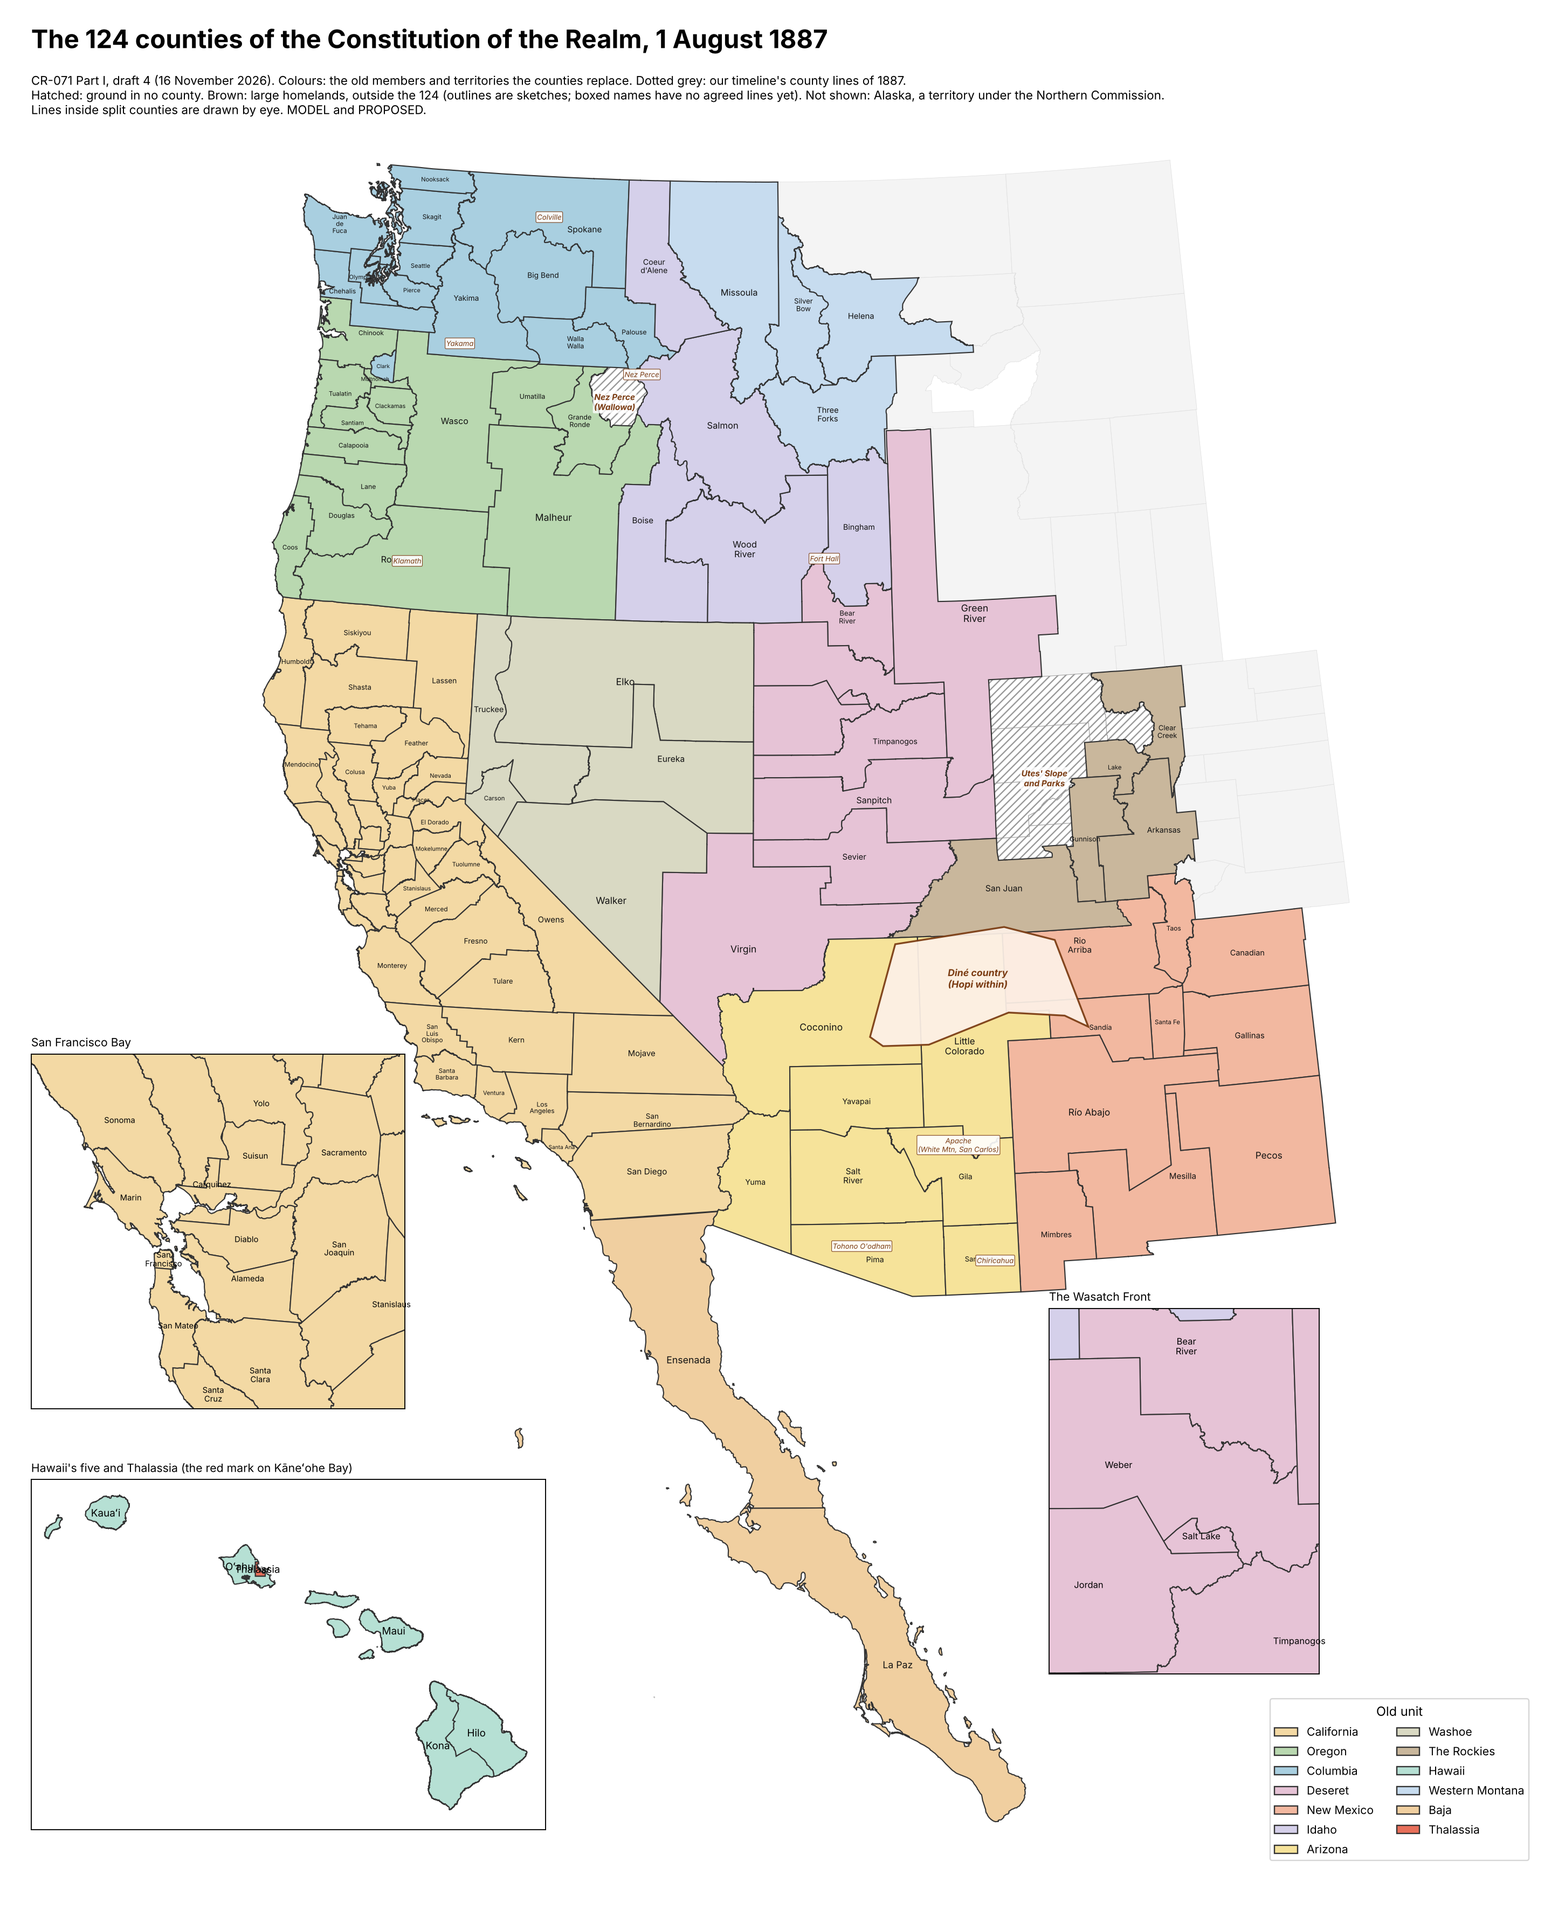
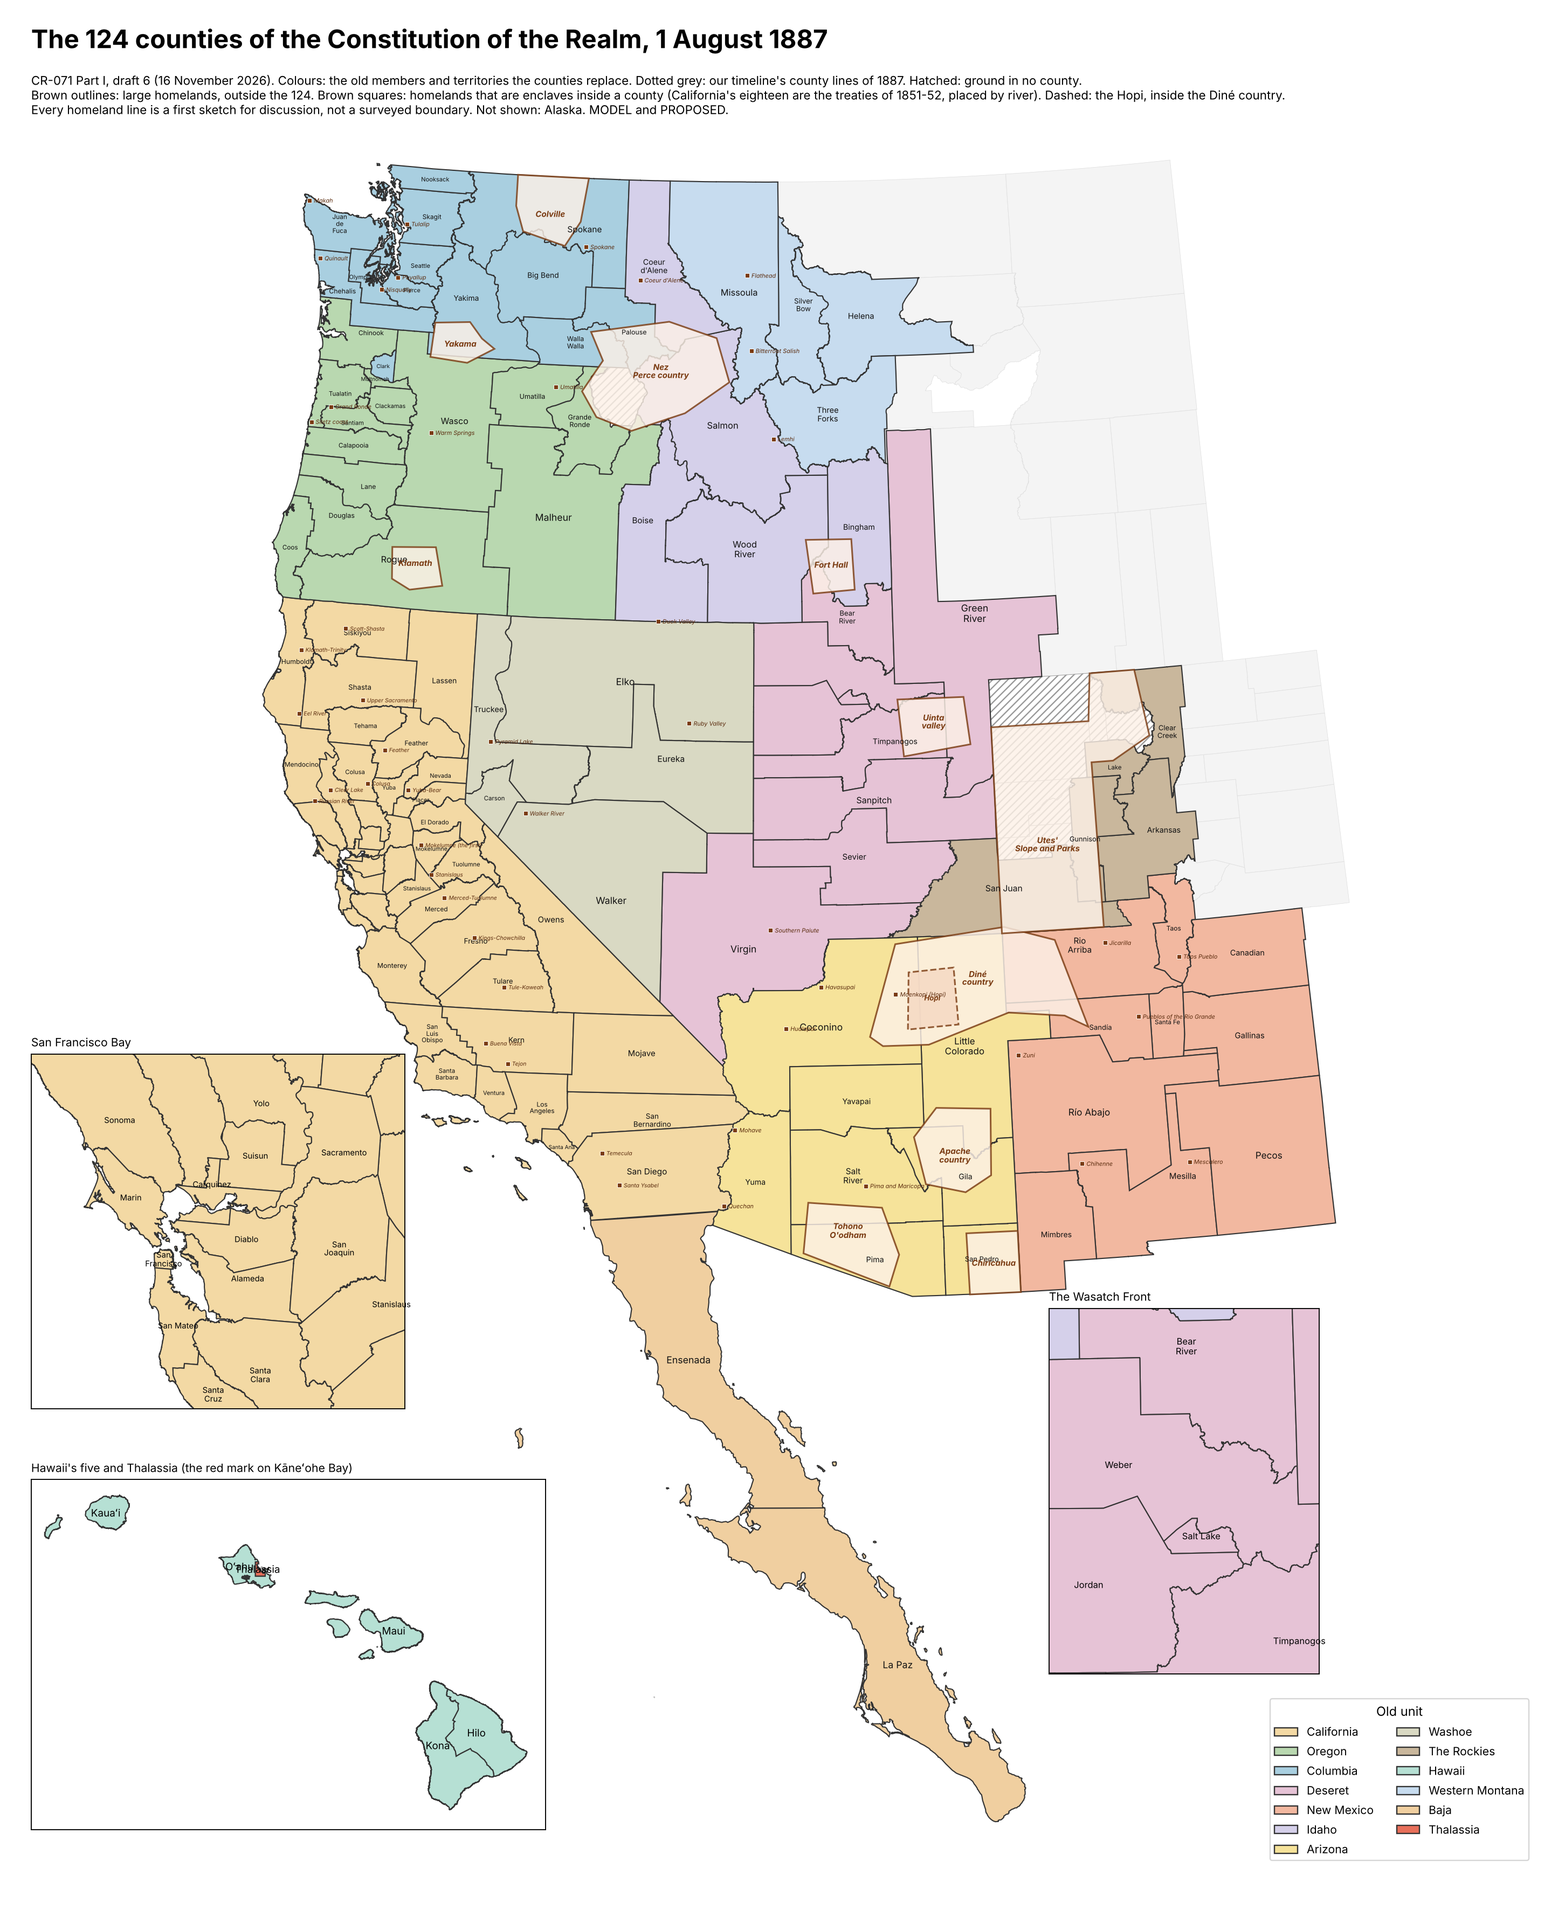
CR-071 Part I, draft 6: the homelands' lines sketched (I4a), California's eighteen and the other enclaves on the map
Claude-Session: https://claude.ai/code/session_016F3fbVaKruuGcW1W1UBgCv

diff --git a/population/draw_map_1887.py b/population/draw_map_1887.py
@@ -30,7 +30,7 @@ import matplotlib.pyplot as plt
 import shapefile
 from matplotlib.patches import PathPatch
 from matplotlib.path import Path as MPath
-from shapely.geometry import LineString, Polygon, box, shape
+from shapely.geometry import LineString, Polygon, box, shape  # noqa: F401
 from shapely.ops import polygonize, unary_union
 import numpy as np
 import shapely
@@ -54,16 +54,7 @@ CUTS = {
     "AZ;Mohave": [("Virgin", -114.2, 36.2, -112.0, 37.1)],
     "AZ;Yavapai": [("Coconino", -114.0, 35.0, -110.6, 37.1)],
 }
-# rough sketches of the large homelands (I-8, I-26), lon/lat rings drawn from Part I's wording
-HOMELANDS = {
-    "Diné country\n(Hopi within)": [(-111.75, 35.45), (-111.2, 36.9), (-109.0, 37.1), (-108.0, 36.85), (-107.45, 35.45),
-                                    (-107.9, 35.65), (-109.0, 35.75), (-110.6, 35.3), (-111.5, 35.3)],
-}
-HOMELAND_LABELS = {  # no outline: lines OPEN
-    "Yakama": (-120.8, 46.25), "Colville": (-118.9, 48.35), "Nez Perce": (-116.6, 45.9), "Klamath": (-121.6, 42.75),
-    "Fort Hall": (-112.5, 43.0), "Tohono O'odham": (-112.0, 32.15), "Apache\n(White Mtn, San Carlos)": (-110.1, 33.7),
-    "Chiricahua": (-109.5, 31.85),
-}
+# the homelands' sketched lines and the enclaves' places: data/counties/homelands_1887.toml
 UNIT_COLOUR = {"California": "#f3d9a4", "Oregon": "#b9d8b0", "Columbia": "#a9cfe0", "Deseret": "#e6c3d6",
                "New Mexico": "#f2b8a0", "Idaho": "#d5d0ea", "Arizona": "#f6e39a", "Washoe": "#d9d9c3",
                "The Rockies": "#c9b79c", "Hawaii": "#b6e0d4", "Western Montana": "#c7dcef", "Baja": "#f0cfa0",
@@ -217,19 +208,20 @@ def main():
         fs = max(4.2, min(7.5, 3.6 + 95 * math.sqrt(big.area)))
         ax.text(pt.x, pt.y, n.replace(" ", "\n") if len(n) > 9 else n, ha="center", va="center", fontsize=fs,
                 color="#111111", linespacing=0.9)
-    for label, ring in HOMELANDS.items():
-        g = P(Polygon(ring))
-        draw_poly(ax, g, facecolor="#fdf1e7", edgecolor="#7a3b12", linewidth=1.4, alpha=0.93)
+    hl = tomllib.load(open(DATA / "homelands_1887.toml", "rb"))
+    for h in hl["large"] + hl["inner"]:
+        g = P(Polygon(h["ring"]))
+        inner = h in hl["inner"]
+        draw_poly(ax, g, facecolor="#fdf1e7" if not inner else "#f6d9c2", edgecolor="#7a3b12", linewidth=1.3,
+                  alpha=0.82, linestyle="-" if not inner else "--")
         pt = g.representative_point()
-        ax.text(pt.x, pt.y, label, ha="center", va="center", fontsize=7.5, style="italic", color="#7a3b12", weight="bold")
-    for label, (lo, la) in HOMELAND_LABELS.items():
-        x, y = albers(lo, la)
-        ax.text(x, y, label, ha="center", va="center", fontsize=5.6, style="italic", color="#7a3b12",
-                bbox=dict(boxstyle="round,pad=0.15", fc="white", ec="#7a3b12", lw=0.5, alpha=0.9))
-    for label, lo, la in (("Utes' Slope\nand Parks", -108.0, 39.4), ("Nez Perce\n(Wallowa)", -117.2, 45.45)):
-        x, y = albers(lo, la)
-        ax.text(x, y, label, ha="center", va="center", fontsize=6.5, style="italic", color="#7a3b12", weight="bold",
-                bbox=dict(boxstyle="round,pad=0.15", fc="white", ec="none", alpha=0.8))
+        ax.text(pt.x, pt.y, h["name"].replace(" ", "\n", 1) if len(h["name"]) > 9 else h["name"], ha="center", va="center",
+                fontsize=6.4 if not inner else 5.6, style="italic", color="#7a3b12", weight="bold", linespacing=0.9)
+    for group, fs in (("california", 4.4), ("elsewhere", 4.6)):
+        for name, lo, la in hl["enclaves"][group]:
+            x, y = albers(lo, la)
+            ax.plot([x], [y], marker="s", ms=3.2, color="#7a3b12", mec="white", mew=0.4, zorder=6)
+            ax.text(x + 0.0012, y, name, ha="left", va="center", fontsize=fs, style="italic", color="#5a2a0c", zorder=6)
     ax.autoscale_view()
     x0, x1 = ax.get_xlim()
     y0, y1 = ax.get_ylim()
@@ -261,11 +253,12 @@ def main():
     inset([0.66, 0.13, 0.20, 0.19], main_names, "The Wasatch Front", (-113.3, 39.9, -110.8, 42.3), fs=7)
 
     fig.text(0.02, 0.975, "The 124 counties of the Constitution of the Realm, 1 August 1887", fontsize=20, weight="bold")
-    fig.text(0.02, 0.962, "CR-071 Part I, draft 4 (16 November 2026). Colours: the old members and territories the counties replace. "
-             "Dotted grey: our timeline's county lines of 1887.\nHatched: ground in no county. "
-             "Brown: large homelands, outside the 124 (outlines are sketches; boxed names have no agreed lines yet). "
-             "Not shown: Alaska, a territory under the Northern Commission.\n"
-             "Lines inside split counties are drawn by eye. MODEL and PROPOSED.", fontsize=9.5, va="top")
+    fig.text(0.02, 0.962, "CR-071 Part I, draft 6 (16 November 2026). Colours: the old members and territories the counties replace. "
+             "Dotted grey: our timeline's county lines of 1887. Hatched: ground in no county.\n"
+             "Brown outlines: large homelands, outside the 124. Brown squares: homelands that are enclaves inside a county "
+             "(California's eighteen are the treaties of 1851-52, placed by river). Dashed: the Hopi, inside the Diné country.\n"
+             "Every homeland line is a first sketch for discussion, not a surveyed boundary. Not shown: Alaska. MODEL and PROPOSED.",
+             fontsize=9.5, va="top")
     handles = [plt.Rectangle((0, 0), 1, 1, fc=c, ec="#333333") for c in UNIT_COLOUR.values()]
     fig.legend(handles, list(UNIT_COLOUR), loc="lower right", bbox_to_anchor=(0.985, 0.03), fontsize=9, ncol=2,
                title="Old unit", frameon=True)

diff --git a/book-agent/revision/CR-071-I-map.md b/book-agent/revision/CR-071-I-map.md
@@ -1,6 +1,6 @@
 # CR-071, Part I — The map: the 124 counties
 
-**Status:** DRAFT 5, 16 November 2026: all 124 drawn and approved by the author region by region; map in `population/outputs/map_1887.png`. Decisions I-1 to I-45 below carry the author's words of 16 November; everything else is PROPOSED. Nothing is integrated.
+**Status:** DRAFT 6, 16 November 2026: all 124 drawn and approved by the author region by region; the homelands' lines sketched for discussion (I4a); map in `population/outputs/map_1887.png`. Decisions I-1 to I-45 below carry the author's words of 16 November; everything else is PROPOSED. Nothing is integrated.
 **Read with:** `CR-071-outline.md` (Part I), `CR-071-E-preparation.md` (E4, E5, E7), `CR-071-FG-triggers-act.md` (G3), CR-021 (B3, G), CR-033, CR-037, CR-070.
 **Numbers:** `population/outputs/counties_1887.md` (our timeline's counties of 1 August 1887), `population/outputs/regions_1887.md` (Pacifica's residents by old unit), both built by scripts in `population/`. Every population figure is MODEL.
 
@@ -125,6 +125,35 @@ Alaska's counties of the strawman return to the pool (I-7). The rule behind the 
 - **They do not count toward the 124.**
 - **Voting (I-9).** A member of a nation who lives in a county registers and votes there like anyone else, and votes only where he is registered.
 - **The Senate (I-9, I-11, I-32, APPROVED).** **Seven homeland seats** (the seventh for Alaska's nations, chosen PROPOSED at the Northern Commission's yearly council). The first six: **six homeland seats**, beside the eight aliʻi seats, each chosen by the councils of the compact nations of one region, in their own way: California; the Columbia and the Sound; the Basin (Shoshone, Paiute, Washoe and the Utes of Deseret); the Rockies' Utes; the Diné; the Pueblos and the Apache.
+
+## I4a. The homelands' lines: a first suggestion (PROPOSED; the author, 16 November, 17:18: "I would like to see a suggestion for the homelands' actual borders next")
+
+**The rule proposed.** A homeland's line is the line of the agreement that made it. Pacifica keeps its own treaties (California, 1851–52; the Diné, the Apache and the Utes, 1865–66) and assumes the Union's ratified ones (CR-059 N-B; CR-060 N1). Where our timeline drew a reservation only after 1861, by executive order or by a treaty Pacifica never signed, that line is used as a first size and the agreement is Pacifica's own, to be dated. Where a line of the 1850s was later cut down in our timeline (the Nez Perce in 1863), the cut is not made here. Mining camps and towns already inside a homeland stand on leased ground (I-34).
+
+The lines are in `population/data/counties/homelands_1887.toml` and on the map. **Every one is a sketch from the assistant's memory of the treaties, not yet read from Royce's *Indian Land Cessions* (1899) or its digitized maps; the areas are measured off the sketches.**
+
+| Large homeland (outside the 124) | Basis | Sketch, sq mi | What the author must decide |
+|---|---|---|---|
+| **Utes' Slope and Parks** | The agreement of 1866 (§15); our timeline's treaty of 1868, west of 107° W, with North and Middle Park | about 30,000 | The largest. San Juan, Gunnison and part of Lake stand inside it on lease (I-34). Whether the Parks belong |
+| **Diné country** | The treaty of 1865; I-18, I-19 | about 21,000 | The sketch is smaller than the 30,000 this part named earlier; the northern line (the San Juan, or beyond it) decides |
+| **Nez Perce country** | Stevens's treaty of 1855, with the Wallowa | about 14,000 | Lewiston and the Clearwater and Salmon camps of 1860–62 lie inside it. Proposed: they are leased county ground (in Palouse and Salmon); the cut of 1863 never happens |
+| **Tohono O'odham** | No treaty in our timeline; the desert they hold | about 7,000 | Pacifica's own compact, to be dated; Pima county keeps Tucson and the Santa Cruz |
+| **Apache country** | The peace of 1865 (§15); our timeline's orders of 1871–72 | about 6,500 | Globe's and Clifton's mines on lease |
+| **Colville** | Our timeline's order of 1872 | about 4,800 | Pacifica's own compact with the upper Columbia's peoples, to be dated |
+| **Uinta valley** | The Spanish Fork council of 1865 (§15); our timeline's order of 1861 | about 4,200 | New on the list: it passes I-26's test. Whether the Utes of Deseret keep ground in their own valleys as well |
+| **Chiricahua** | The peace of 1865 with Cochise; our timeline's reservation of 1872 | about 3,800 | It covers most of San Pedro county east of the river (I-37) |
+| **Fort Hall** | Our timeline's Fort Bridger treaty of 1868; Washakie's agreement is OPEN in canon | about 2,800 | Just under I-26's size; kept large because it lies across the Snake |
+| **Yakama** | Stevens's treaty of 1855 | about 2,200 | Under I-26's size on this sketch (the treaty's own acreage to check); listed as large by I-26 |
+| **Klamath** | Our timeline's treaty of 1864 | about 2,200 | As Yakama |
+| *Hopi (inside the Diné country)* | HP1–HP7 | about 3,300 | The line by named places (HP2) |
+
+Together the large homelands are on the order of 100,000 square miles, about a tenth of the mainland.
+
+**Enclaves (inside a county's lines).** Marked on the map as squares, with no outline yet:
+- **California's eighteen.** The treaties of 1851–52 (§8) reserved eighteen tracts; our timeline's Senate rejected them, here they stand. They are placed by river: Tejon, Buena Vista, Tule–Kaweah, Kings–Chowchilla, Merced–Tuolumne, Stanislaus, Mokelumne (the first, §8), Yuba–Bear, Feather, Colusa, Upper Sacramento, Clear Lake, Russian River, Eel River, Klamath–Trinity, Scott–Shasta, Temecula, Santa Ysabel. The names are the assistant's labels; the treaties' own tracts and acreage (about 7.5% of the state in our timeline's drafts, to verify) are to be read from Royce and from Heizer, *The Eighteen Unratified Treaties* (1972).
+- **Elsewhere:** Warm Springs, Umatilla, the Siletz coast, Grand Ronde, Quinault, Makah, Tulalip, Puyallup, Nisqually, Coeur d'Alene, Spokane, Flathead, the Bitterroot Salish, Lemhi, Duck Valley, Pyramid Lake, Walker River, Ruby Valley, the Southern Paiute, Moenkopi, Zuni, the Rio Grande Pueblos, Taos Pueblo, the Jicarilla (I-31), the Mescalero, the Chihenne, the Pima and Maricopa, the Quechan, the Mohave, the Hualapai, the Havasupai. The list is not complete, and Baja's peoples are OPEN.
+
+**For the author:** the rule; the Nez Perce line of 1855 with Lewiston on lease; the Uinta valley as a large homeland; the Diné country's northern line; whether Yakama, Klamath and Fort Hall stay large. **Source needed:** the Forest Service's digitized Royce maps ("Tribal Land Cessions", S_USA.TRIBALCEDEDLANDS) could not be reached from this workspace; with that file in the repository the sketches can be replaced by the treaties' own lines.
 
 ## I5. Alaska — I-7 APPROVED
 
@@ -365,7 +394,7 @@ Hawaii had no counties in our timeline before 1905; the Kingdom had a governor f
 
 ## I6. The map as drawn
 
-**The drawing** is `population/outputs/map_1887.png`, made by `population/draw_map_1887.py` from the Newberry atlas's geometry (CC0; not in this repository). It joins our timeline's counties of 1887 as the list says; where one of them is divided, the cut is a straight line chosen by eye, and the homelands' outlines are sketches. Known approximations: Clear Creek is drawn with the whole of Boulder, Jefferson and Larimer, of which only the mountain districts are Pacifican; the Diné country is sketched over the counties round it.
+**The drawing** is `population/outputs/map_1887.png`, made by `population/draw_map_1887.py` from the Newberry atlas's geometry (CC0; not in this repository). It joins our timeline's counties of 1887 as the list says; where one of them is divided, the cut is a straight line chosen by eye, and the homelands' outlines are sketches. Known approximations: Clear Creek is drawn with the whole of Boulder, Jefferson and Larimer, of which only the mountain districts are Pacifican; the homelands (I4a) are sketched over the counties round them, whose lines are not yet pulled back.
 
 `population/outputs/map_1887.md` lists all 124 with seats, parts and people; `population/data/counties/map_1887.toml` is the source, and `population/map_1887.py` checks it (124 counties, no name twice, no historical county assigned twice).
 

diff --git a/outputs/sessions/20261116-counties/session.md b/outputs/sessions/20261116-counties/session.md
@@ -54,6 +54,9 @@ independence: self-review only (the consistency check of 16 November was done in
 - **Approved (author, 16 November, 16:31):** I-41 to I-45 (Hawaii's five; Thalassia's lines; Kalaupapa; the Hawaiian examination; Idaho's, Washoe's and the Rockies' counties). Every county of the 124 is now approved.
 - **Map drawn** on the author's request: `population/outputs/map_1887.png` (`population/draw_map_1887.py`; needs the atlas's topology, cloned outside the repo, plus shapely and pyshp).
 - **Owed:** sources for Salt Lake City's share of its valley and for the Diné population of 1887.
+- **Author, 16 November, 17:18:** the awkwardly shaped counties are acceptable; asked for a suggestion of the homelands' borders and why California's homelands were not on the map (they were enclaves by I-8 and had been left off the drawing; now marked).
+- **Homelands sketched (PROPOSED):** `population/data/counties/homelands_1887.toml`, Part I section I4a, and the map: eleven large homelands with first lines, the Hopi inside the Diné country, California's eighteen and some thirty other enclaves as points. All from memory of the treaties; Royce's maps still to be read (the Forest Service's file could not be reached from the workspace).
+- **Waiting for the author:** I4a's questions (the rule; Nez Perce 1855 with Lewiston on lease; Uinta valley; the Diné country's northern line; Yakama, Klamath and Fort Hall).
 - **Next:** G3's table replaced by I6's; the outline's Part I, CT3 and CT5 updated; the settlement programme written into Part C and costed; the Baja commission (I-39) and the three assumed railways given dates; then a fresh-context review of Part I. Maps can be drawn from the atlas's topology (`localgeohistoryproject/county-boundaries-topology`, CC0). Then G3 recounted, the outline's I and CT3/CT5 updated, and the programme written into Part C and costed.
 - **Corrected in this session:** Thalassia is on Kāneʻohe Bay, not in California; the allocation tables now count it apart.
 - Then Parts A, B, C and J; storyline text, fact changes, ledger (Japan's loan of 1873; the seven charter entries, F–G section T5), registry lines, model rows; a fresh-context review; integration in the K-1 order. CR-057 is now on `main` (PR #73), so CR-073 and CR-072 integrate on `main` as it stands.
